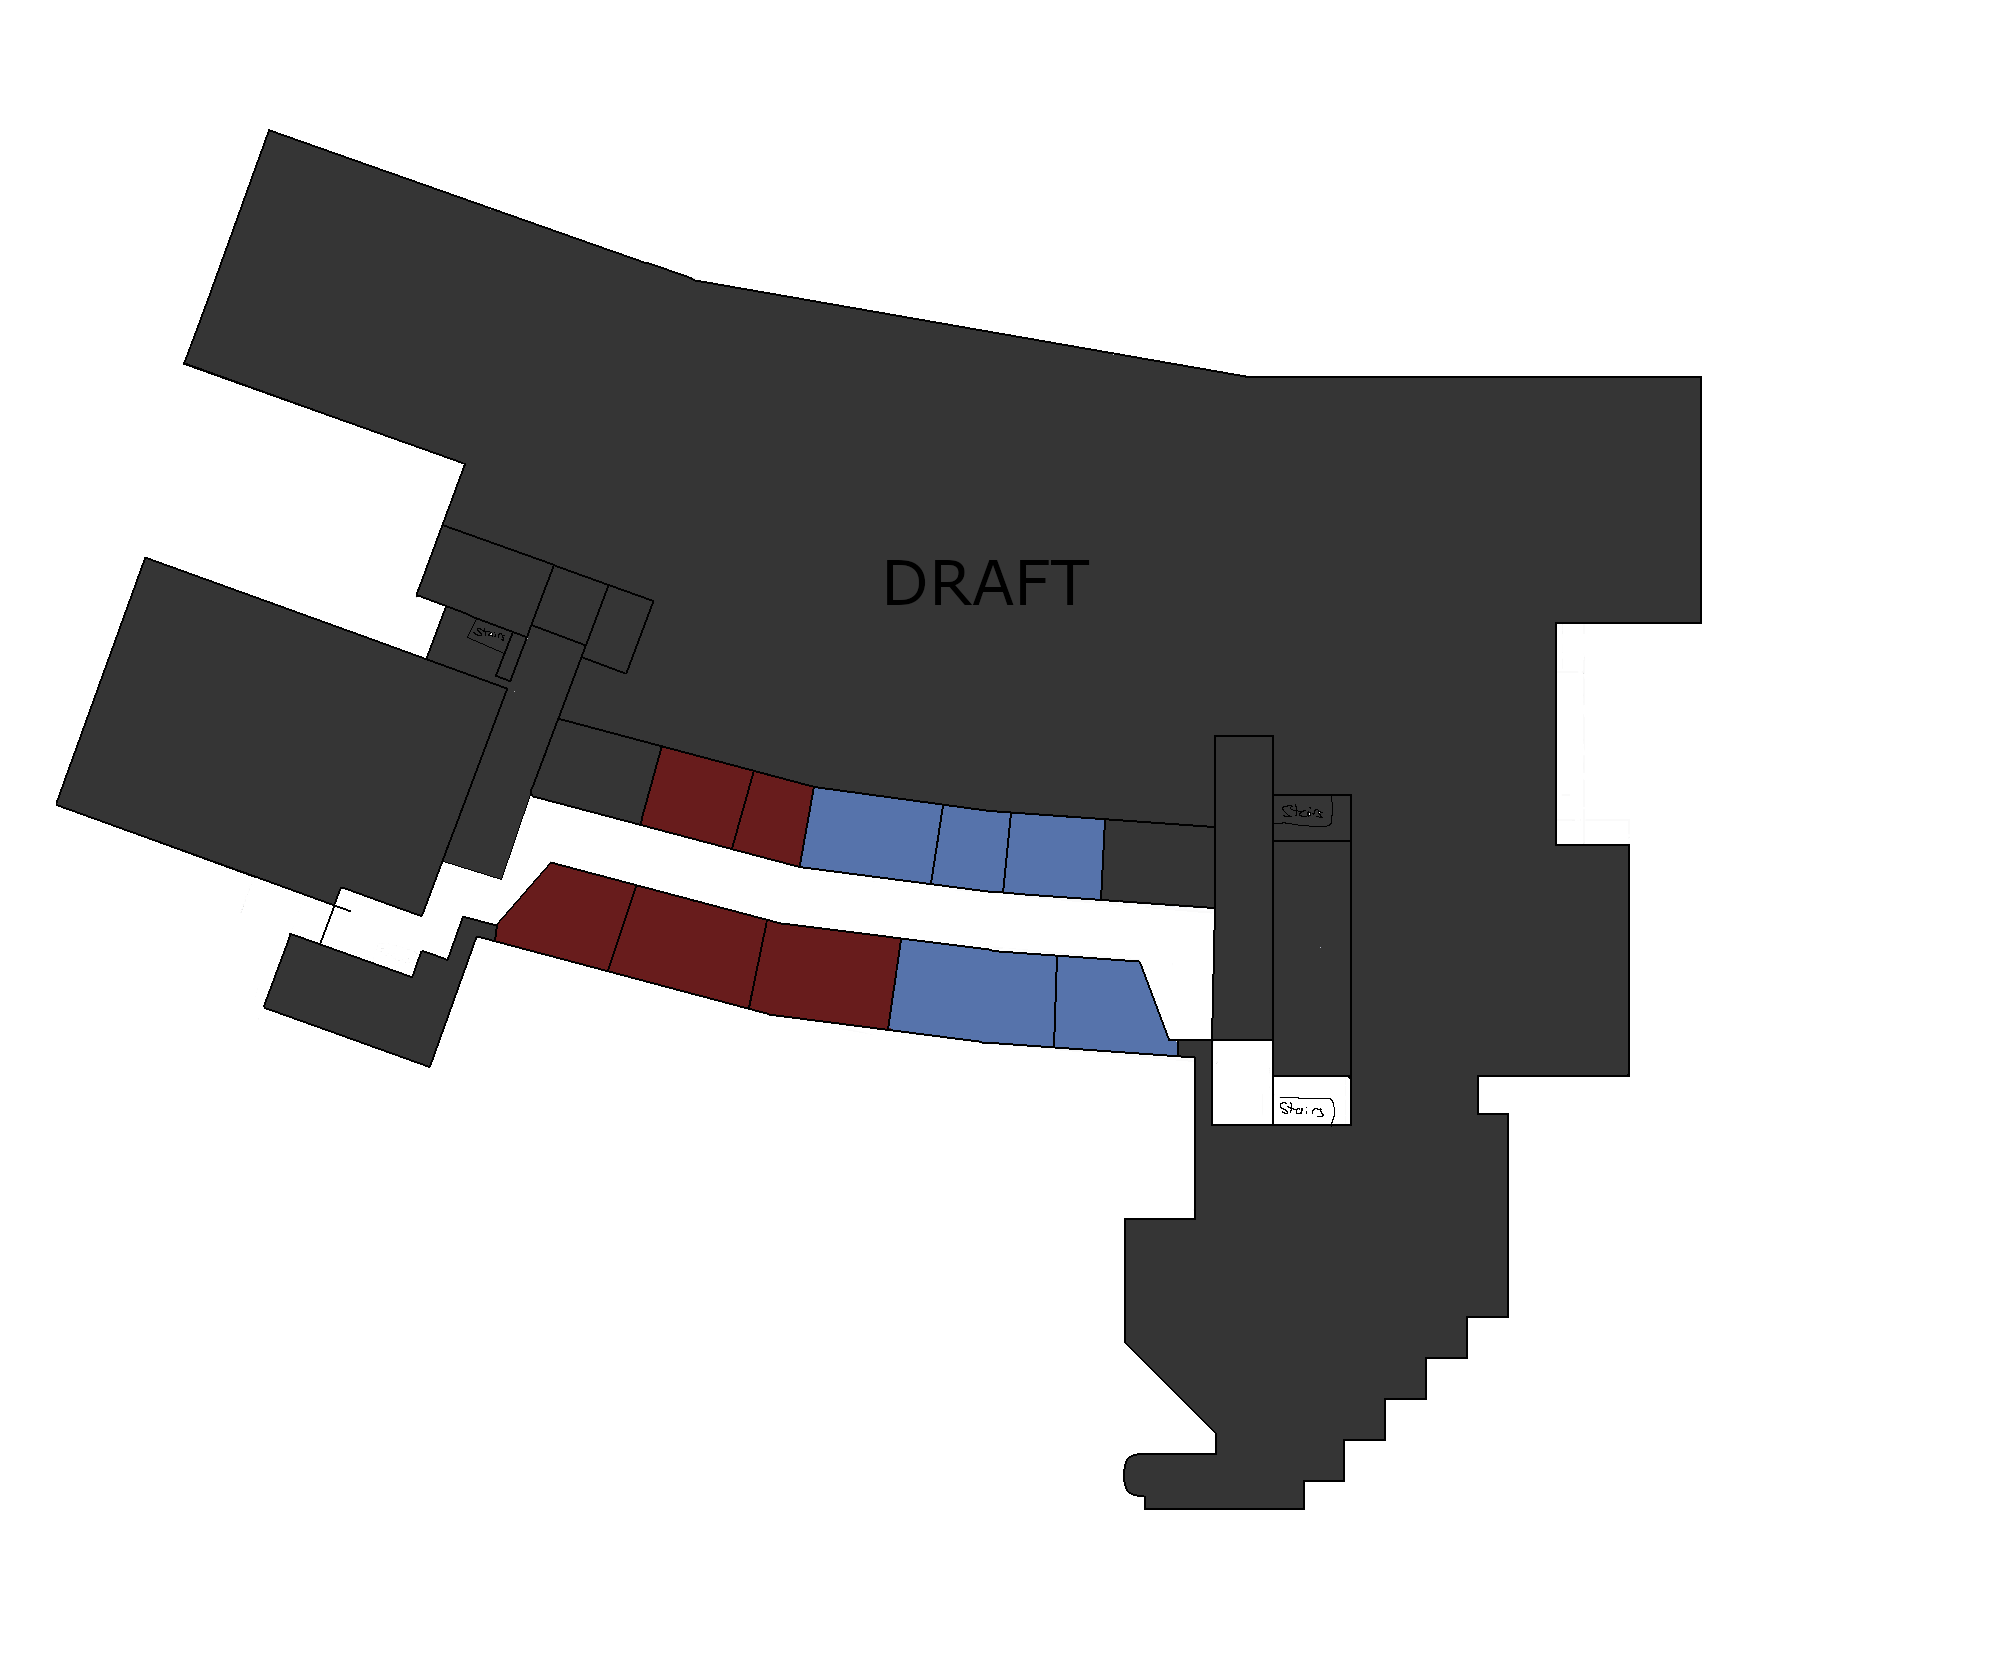
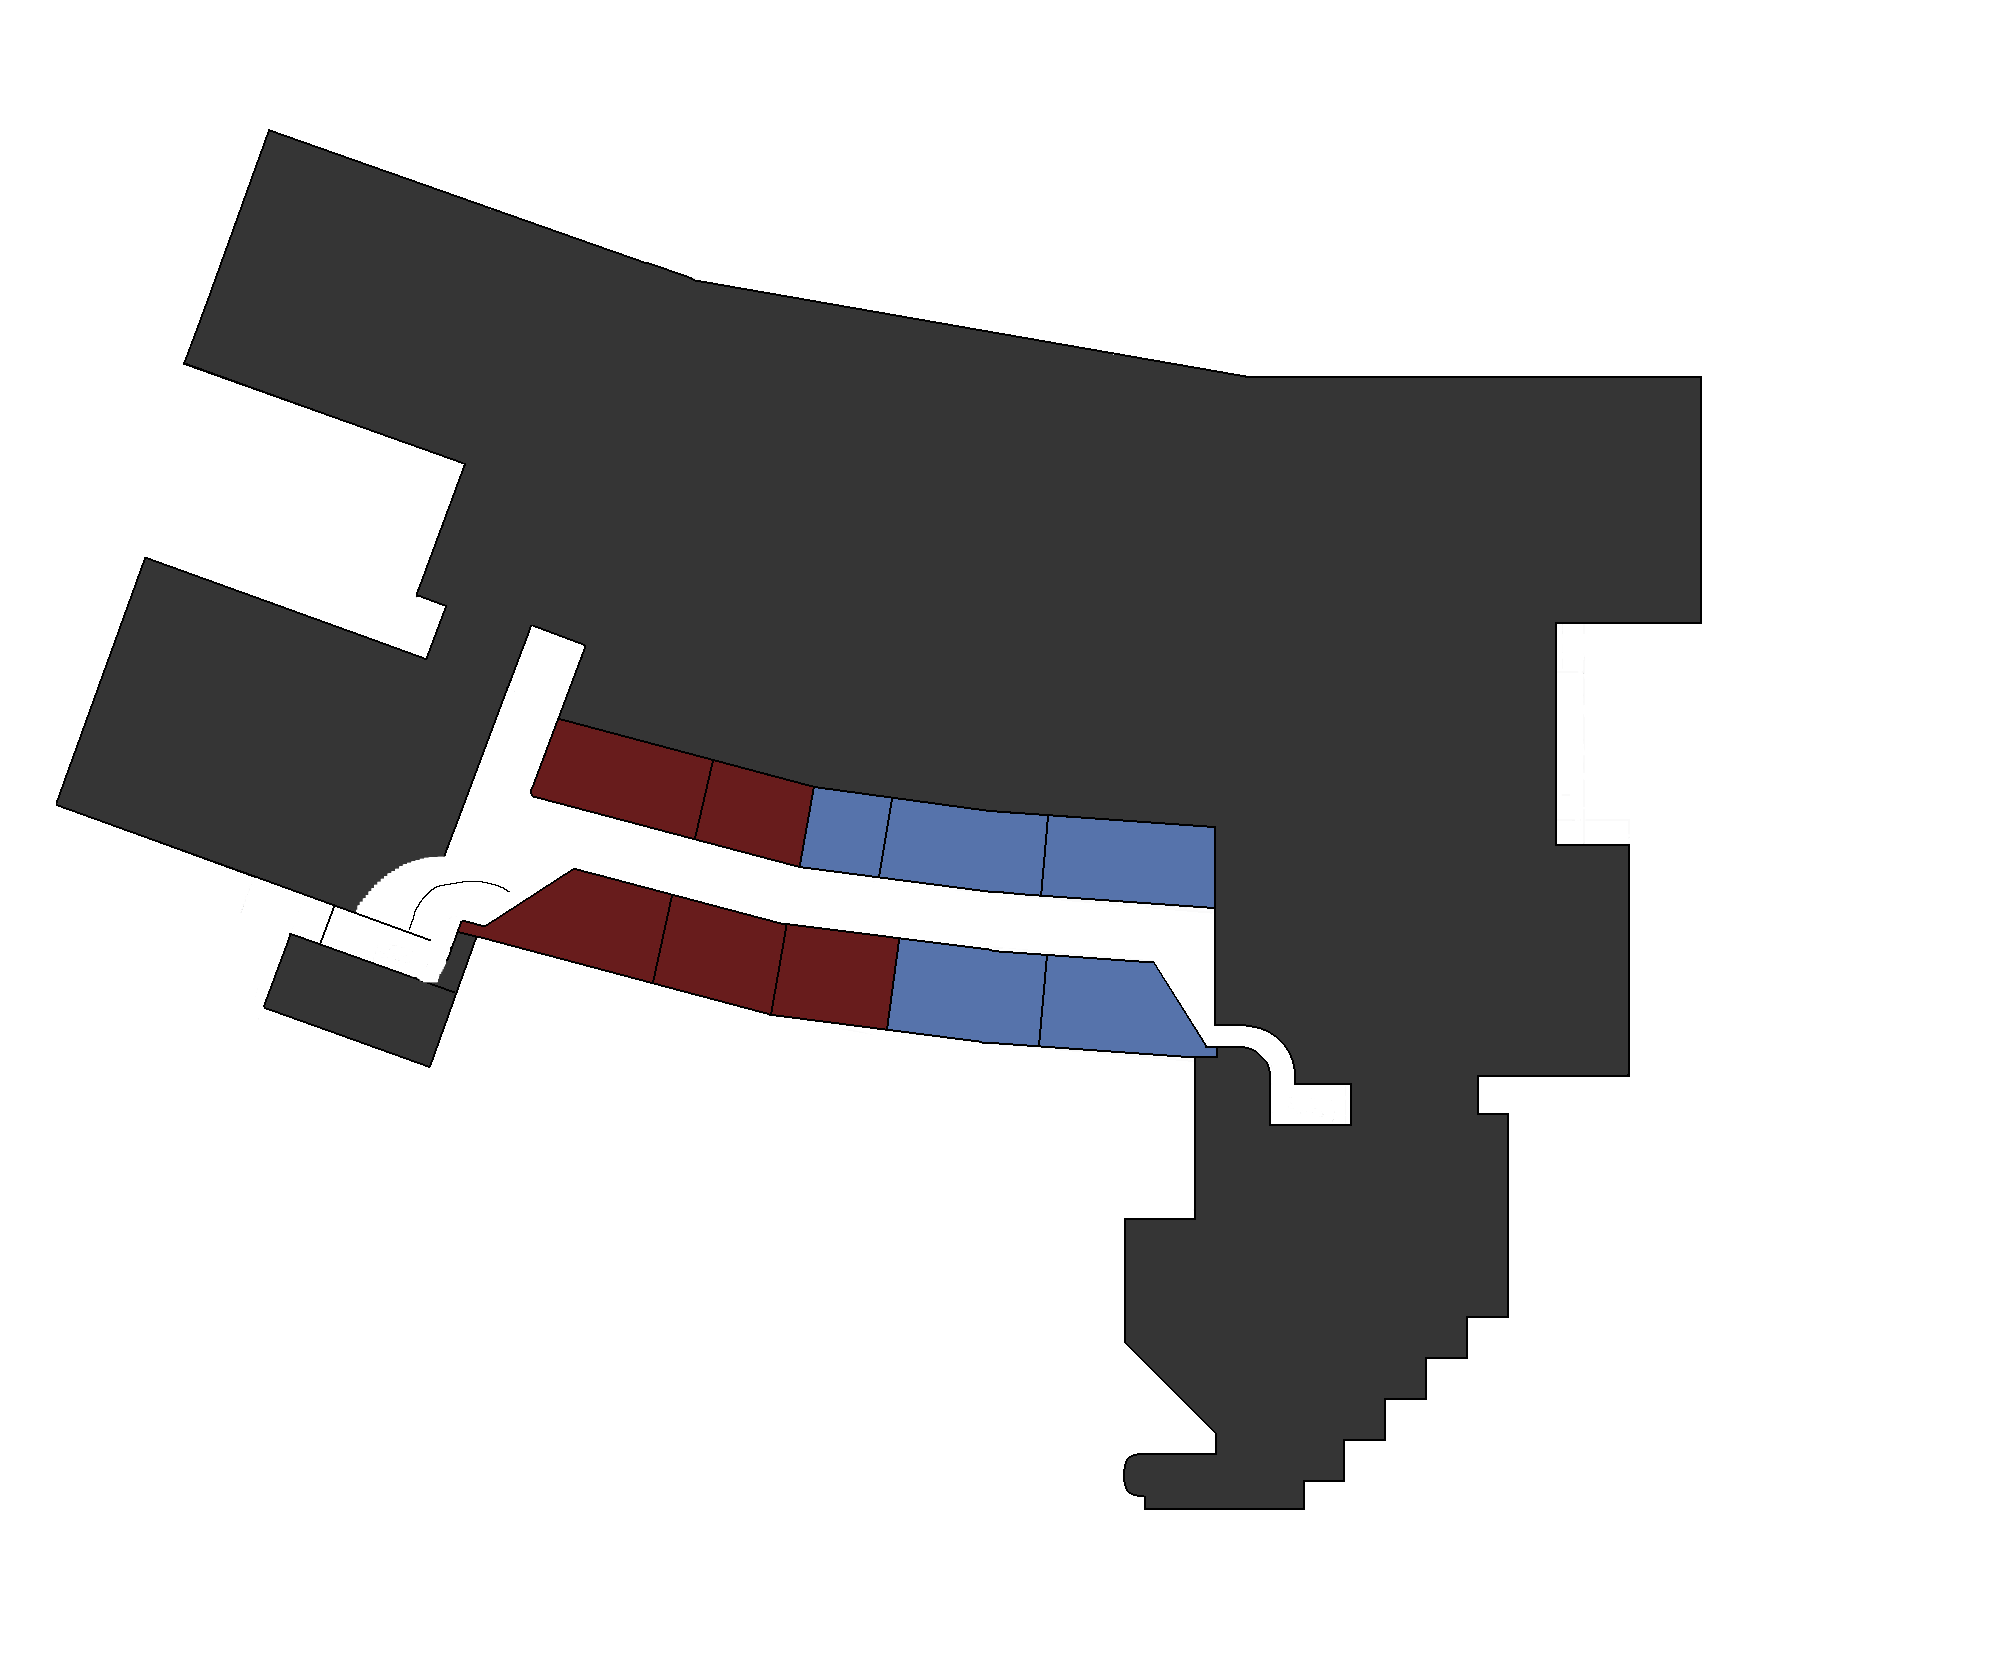
Maps are cropped to fit directions

diff --git a/Backend/backend.py b/Backend/backend.py
@@ -1,6 +1,7 @@
 from PIL import Image, ImageDraw
 import asyncio
 import json
+import math
 
 import Backend.Nodes.StairNode
 import Backend.Nodes.CornerNode
@@ -22,6 +23,12 @@ async def draw_path(node_list):
     draw_floor = [ImageDraw.Draw(floor[0]), ImageDraw.Draw(floor[1]), ImageDraw.Draw(floor[2]), ImageDraw.Draw(floor[3]), ImageDraw.Draw(floor[4])]
     from_node = (0, 0)
     to_node = (0, 0)
+
+    top = math.inf
+    left = math.inf
+    bottom = -math.inf
+    right = - math.inf
+
     for i in range(len(node_list) - 1):
         try:
             from_node = node_list[i].coordinates
@@ -38,6 +45,15 @@ async def draw_path(node_list):
 
             if from_node == to_node:
                 continue
+
+            if from_node[0] < left:
+                left = max(from_node[0] - 75, 0)
+            if from_node[1] < top:
+                top = max(from_node[1] - 75, 0)
+            if from_node[0] > right:
+                right = min(from_node[0] + 75, 2000)
+            if from_node[1] > bottom:
+                bottom = min(from_node[1] + 75, 1659)
 
             print(f"Drawing from {from_node} to {to_node}")
 
@@ -76,14 +92,24 @@ async def draw_path(node_list):
                 floor[current_floor].paste(im2, (from_node[0] - 25, from_node[1] - 50), im2.convert("L").point(fn, mode='1'))
 
             if i == len(node_list) - 2:
-                print(to_node[0])
-                print(to_node[1])
+                if to_node[0] < left:
+                    left = max(to_node[0] - 75, 0)
+                if to_node[1] < top:
+                    top = max(to_node[1] - 75, 0)
+                if to_node[0] > right:
+                    right = min(to_node[0] + 75, 2000)
+                if to_node[1] > bottom:
+                    bottom = min(to_node[1] + 75, 1659)
                 draw_floor[current_floor].pieslice(((to_node[0] - 25, to_node[1] - 25), (to_node[0] + 25, to_node[1] + 25)), start=240, end=300, fill=(0, 255, 0, 255))
 
         except AttributeError:
             pass
 
     for i in range(len(floor)):
+        crop_rect = (left, top, right, bottom)
+        floor[i] = floor[i].crop(crop_rect)
+
+
         floor[i].save(f'map_path{i}.png', quality=95)
 
 
@@ -293,4 +319,4 @@ async def toJSON(directions: list):
 
 
 if __name__ == '__main__':
-    print(asyncio.run(main('1401', '5101')))
+    print(asyncio.run(main('1311', '1409')))
